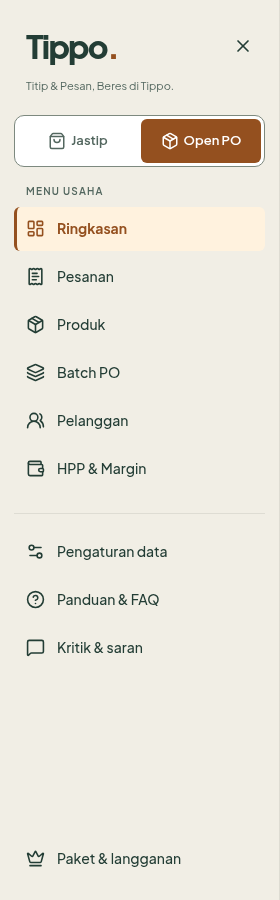
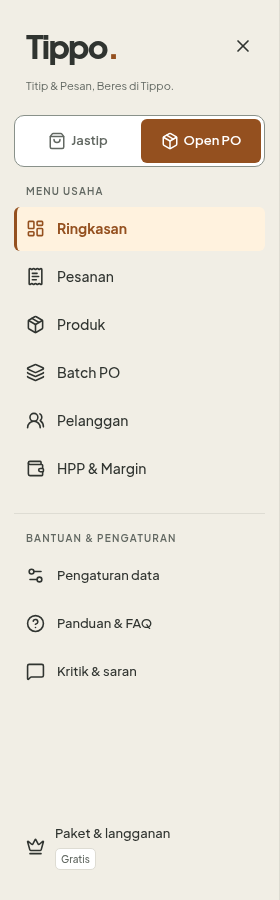
Add confirmed order status changes and refine sidebar for both businesses

Changed region(s): [[0.0857, 0.5911, 0.6286, 0.7778], [0.2, 0.9022, 0.6286, 0.9644], [0.0857, 0.9333, 0.1714, 0.9644]]

diff --git a/src/components/orders-table.tsx b/src/components/orders-table.tsx
@@ -1,10 +1,10 @@
 "use client";
 import { visibleOrderStatus } from "@/lib/order-status";
 
-import { Select, SelectOption } from "@/components/ui/select";
+import { OrderStatusDialog, orderStatuses as statuses, type OrderStatusHandler } from "@/components/order-status-dialog";
 
 import { useState } from "react";
-import { FileText, Pencil, ShoppingBag, RotateCcw } from "lucide-react";
+import { ArrowLeftRight, FileText, Pencil, ShoppingBag, RotateCcw } from "lucide-react";
 import { RefundDialog, type RefundHandler } from "@/components/refund-dialog";
 import { refundedTotal } from "@/lib/refund";
 import { InvoiceDialog } from "@/components/invoice-dialog";
@@ -16,18 +16,12 @@ type OrdersTableProps = {
   data: AppData;
   orders: Order[];
   onEdit: (order: Order) => void;
-  onStatus: (order: Order, status: Order["status"]) => void;
+  onStatus: OrderStatusHandler;
   onRefund: RefundHandler;
   compact?: boolean;
   readOnly?: boolean;
 };
 
-const statuses: { value: Order["status"]; label: string }[] = [
-  { value: "new", label: "Tercatat" },
-  { value: "shipped", label: "Dikirim" },
-  { value: "done", label: "Selesai" },
-  { value: "cancelled", label: "Dibatalkan" },
-];
 
 const avatarColors = ["teal", "peach", "lavender", "gold"];
 
@@ -36,6 +30,8 @@ function initials(name: string) {
 }
 
 export function OrdersTable({ data, orders, onEdit, onStatus, onRefund, compact = false, readOnly = false }: OrdersTableProps) {
+  const [statusOrderId, setStatusOrderId] = useState<string | null>(null);
+  const statusOrder = data.orders.find(order => order.id === statusOrderId);
   const [refundId,setRefundId]=useState<string|null>(null);
   const refundOrder=data.orders.find(order=>order.id===refundId);
   const [invoiceOrderId, setInvoiceOrderId] = useState<string | null>(null);
@@ -51,7 +47,7 @@ export function OrdersTable({ data, orders, onEdit, onStatus, onRefund, compact 
   }
 
   return (
-    <><MobileDataList entries={orders.map(order=>({id:order.id,title:data.customers.find(c=>c.id===order.customerId)?.name||"Pelanggan",subtitle:orderLabel(order),meta:`${formatCurrency(orderRevenue(order))} · ${outstanding(order)>0?`Sisa ${formatCurrency(outstanding(order))}`:"Lunas"}`,status:statuses.find(s=>s.value===visibleOrderStatus(order.status))?.label,details:<><dl className="mobile-detail-fields"><dt>Batch</dt><dd>{data.batches.find(b=>b.id===order.batchId)?.name}</dd><dt>Barang</dt><dd>{order.items.map(i=><p key={i.id}>{itemLabel(i)} × {i.quantity}</p>)}</dd><dt>Total tagihan</dt><dd>{formatCurrency(orderRevenue(order))}</dd><dt>Sudah dibayar</dt><dd>{formatCurrency(order.paid)}</dd><dt>Sisa tagihan</dt><dd>{formatCurrency(outstanding(order))}</dd><dt>HPP</dt><dd>{orderHpp(order,data.orders,data.batches)===null?"Belum lengkap":formatCurrency(orderHpp(order,data.orders,data.batches)!)}</dd></dl>{!readOnly&&<><Select className="input" aria-label={`Status pesanan ${orderLabel(order)}`} value={visibleOrderStatus(order.status)} onValueChange={v=>onStatus(order,v as Order["status"])}>{statuses.map(s=><SelectOption key={s.value} value={s.value}>{s.label}</SelectOption>)}</Select><div className="management-actions"><button data-close-detail className="btn btn-primary" onClick={()=>onEdit(order)}>Edit</button><button data-close-detail className="btn btn-secondary" onClick={()=>setInvoiceOrderId(order.id)}>Invoice</button><button data-close-detail className="btn btn-secondary" disabled={order.paid===0&&!order.refunds?.length} onClick={()=>setRefundId(order.id)}>Refund</button></div></>}</>}))}/><div className="table-wrap desktop-data-table">
+    <><MobileDataList entries={orders.map(order=>({id:order.id,title:data.customers.find(c=>c.id===order.customerId)?.name||"Pelanggan",subtitle:orderLabel(order),meta:`${formatCurrency(orderRevenue(order))} · ${outstanding(order)>0?`Sisa ${formatCurrency(outstanding(order))}`:"Lunas"}`,status:statuses.find(s=>s.value===visibleOrderStatus(order.status))?.label,statusClassName:`status-tag order-status-${visibleOrderStatus(order.status)}`,details:<><dl className="mobile-detail-fields"><dt>Batch</dt><dd>{data.batches.find(b=>b.id===order.batchId)?.name}</dd><dt>Barang</dt><dd>{order.items.map(i=><p key={i.id}>{itemLabel(i)} × {i.quantity}</p>)}</dd><dt>Total tagihan</dt><dd>{formatCurrency(orderRevenue(order))}</dd><dt>Sudah dibayar</dt><dd>{formatCurrency(order.paid)}</dd><dt>Sisa tagihan</dt><dd>{formatCurrency(outstanding(order))}</dd><dt>HPP</dt><dd>{orderHpp(order,data.orders,data.batches)===null?"Belum lengkap":formatCurrency(orderHpp(order,data.orders,data.batches)!)}</dd></dl>{!readOnly&&<><button className="btn btn-secondary product-mobile-action" data-close-detail onClick={()=>setStatusOrderId(order.id)}><ArrowLeftRight size={16}/>Ubah status</button><div className="management-actions"><button data-close-detail className="btn btn-primary" onClick={()=>onEdit(order)}>Edit</button><button data-close-detail className="btn btn-secondary" onClick={()=>setInvoiceOrderId(order.id)}>Invoice</button><button data-close-detail className="btn btn-secondary" disabled={order.paid===0&&!order.refunds?.length} onClick={()=>setRefundId(order.id)}>Refund</button></div></>}</>}))}/><div className="table-wrap desktop-data-table">
       <table className={`orders-table ${readOnly ? "orders-readonly" : ""}`}>
         <caption className="sr-only">Daftar pesanan jastip dan open PO</caption>
         <thead>
@@ -94,22 +90,20 @@ export function OrdersTable({ data, orders, onEdit, onStatus, onRefund, compact 
                 {!compact && <td className="numeric-cell"><span className={hpp === null ? "row-subtitle" : "row-title"} style={{ fontVariantNumeric: "tabular-nums", whiteSpace: "nowrap" }}>{hpp === null ? "Belum lengkap" : formatCurrency(hpp)}</span></td>}
                 <td>
                   {refundedTotal(order)>0 && <div className="row-subtitle">Refund {formatCurrency(refundedTotal(order))}</div>}
-                  {cancelled ? <span className="payment-label muted">Dibatalkan</span> : remaining === 0 ? <span className="payment-label" style={{ color: "var(--primary, #24756b)" }}>Lunas</span> : <>
-                    <span className="payment-label" style={{ color: order.paid > 0 ? "var(--warning, #aa762c)" : "var(--muted, #83908c)" }}>{order.paid > 0 ? `DP ${formatCurrency(order.paid)}` : "Belum dibayar"}</span>
+                  {cancelled ? <span className="payment-label muted">Dibatalkan</span> : remaining === 0 ? <span className="payment-label payment-paid">Lunas</span> : <>
+                    <span className={`payment-label ${order.paid > 0 ? "payment-partial" : "muted"}`}>{order.paid > 0 ? `Bayar sebagian ${formatCurrency(order.paid)}` : "Belum dibayar"}</span>
                     <div className="row-subtitle">Sisa {formatCurrency(remaining)}</div>
                   </>}
                 </td>
                 <td className="center-cell">
-                  {readOnly ? <span className={`status-tag status-${visibleOrderStatus(order.status)}`}>{statuses.find(s=>s.value===visibleOrderStatus(order.status))?.label}</span> : <Select className={`tiny-select status-tag status-${visibleOrderStatus(order.status)}`} value={visibleOrderStatus(order.status)} onValueChange={(value) => onStatus(order, value as Order["status"])} aria-label={`Status pesanan ${label} untuk ${customer?.name ?? "pelanggan"}`}>
-                    {statuses.map((status) => <SelectOption key={status.value} value={status.value}>{status.label}</SelectOption>)}
-                  </Select>}
+                  <span className={`status-tag order-status-${visibleOrderStatus(order.status)}`}>{statuses.find(s=>s.value===visibleOrderStatus(order.status))?.label}</span>
                 </td>
-                {!readOnly && <td className="actions-cell"><div className="order-actions"><button className="icon-button" type="button" onClick={() => setInvoiceOrderId(order.id)} aria-label={`Invoice ${label}`} title="Invoice WhatsApp"><FileText size={16} /></button><button className="icon-button" type="button" onClick={() => onEdit(order)} aria-label={`Edit pesanan ${label}`}><Pencil size={16} /></button><button className="icon-button" type="button" aria-label={`Refund ${label}`} title="Refund pesanan" disabled={order.paid===0 && !order.refunds?.length} onClick={()=>setRefundId(order.id)}><RotateCcw size={16}/></button></div></td>}
+                {!readOnly && <td className="actions-cell"><div className="order-actions"><button className="icon-button" type="button" aria-label={`Ubah status pesanan ${label} untuk ${customer?.name ?? "pelanggan"}`} title="Ubah status" onClick={()=>setStatusOrderId(order.id)}><ArrowLeftRight size={16}/></button><button className="icon-button" type="button" onClick={() => setInvoiceOrderId(order.id)} aria-label={`Invoice ${label}`} title="Invoice WhatsApp"><FileText size={16} /></button><button className="icon-button" type="button" onClick={() => onEdit(order)} aria-label={`Edit pesanan ${label}`}><Pencil size={16} /></button><button className="icon-button" type="button" aria-label={`Refund ${label}`} title="Refund pesanan" disabled={order.paid===0 && !order.refunds?.length} onClick={()=>setRefundId(order.id)}><RotateCcw size={16}/></button></div></td>}
               </tr>
             );
           })}
         </tbody>
       </table>
-    </div>{refundOrder && <RefundDialog order={refundOrder} onRefund={onRefund} onClose={()=>setRefundId(null)}/ >}{invoiceOrder && <InvoiceDialog order={invoiceOrder} data={data} onClose={() => setInvoiceOrderId(null)} />}</>
+    </div>{statusOrder && !readOnly && <OrderStatusDialog order={statusOrder} onSave={onStatus} onClose={()=>setStatusOrderId(null)}/ >}{refundOrder && <RefundDialog order={refundOrder} onRefund={onRefund} onClose={()=>setRefundId(null)}/ >}{invoiceOrder && <InvoiceDialog order={invoiceOrder} data={data} onClose={() => setInvoiceOrderId(null)} />}</>
   );
 }

diff --git a/tests/website.spec.ts b/tests/website.spec.ts
@@ -428,6 +428,8 @@ for(const width of [390,1440]) for(const theme of ["light","dark"]) test(`sideba
  await openNavigation(page);
  const sidebar=page.locator(".sidebar");
  await expect(sidebar.getByRole("group",{name:"Pilih usaha"})).toBeVisible();
+ await expect(sidebar.locator(".sidebar-plan-badge")).toHaveText("Gratis");await expect(sidebar.getByText("Bantuan & pengaturan",{exact:true})).toBeVisible();
+ const switchWidths=await sidebar.locator(".business-switch button").evaluateAll(buttons=>buttons.map(b=>b.getBoundingClientRect().width));expect(Math.abs(switchWidths[0]-switchWidths[1])).toBeLessThan(1);
  await expect(page.locator("main .business-switch")).toHaveCount(0);
  await expect(sidebar.locator(".sidebar-menu-group").first().getByRole("button")).toHaveText(["Ringkasan","Pesanan","Perjalanan","Pelanggan","HPP & Margin"]);
  await sidebar.getByRole("button",{name:"Open PO",exact:true}).click();
@@ -654,7 +656,7 @@ test("dashboard recent orders are read only while Jastip retains actions",async(
  expect(alignment).toBeLessThan(1); await recent.screenshot({path:"docs/preview-dashboard-orders-readonly.png"});
  await openBusiness(page,"Jastip"); await openSection(page,"Pesanan");
  await expect(page.getByRole("button",{name:"Edit pesanan Barang Ringkasan"})).toBeVisible();
- await expect(page.getByLabel("Status pesanan Barang Ringkasan untuk Alya")).toBeVisible();
+ await expect(page.getByRole("button",{name:"Ubah status pesanan Barang Ringkasan untuk Alya"})).toBeVisible();
 });
 
 test("product status actions confirm archive and restore and preserve status on cancel",async({page})=>{
@@ -695,6 +697,21 @@ for(const paid of [false,true])test(`unpaid dashboard distinguishes ${paid?"sett
  const data=structuredClone(fixture);
  if(paid)data.orders.push({id:"paid-order",batchId:"trip",customerId:"aly",date:new Date().toLocaleDateString("en-CA",{timeZone:"Asia/Jakarta"}),createdAt:new Date().toISOString(),status:"done",paid:25000,serviceFee:0,shippingCharge:0,notes:"",items:[{id:"paid-item",product:"Produk lunas",productId:null,variant:"",color:"",size:"",quantity:1,unitPrice:25000,unitCost:12000}]});
  await authenticate(page,{workspace:data});await page.goto("/app");const card=page.getByRole("region",{name:"Tagihan belum lunas"});await expect(card).toContainText(paid?"Semua tagihan bulan ini sudah lunas.":"Belum ada tagihan bulan ini.");await expect(card.locator("li")).toHaveCount(0);
+});
+
+for(const mode of ["Jastip","Open PO"])for(const width of [390,1440])for(const theme of ["light","dark"])test(`order status dialog ${mode} ${width} ${theme} saves explicitly and keeps cancellation guard`,async({page})=>{
+ await page.setViewportSize({width,height:1000});await page.addInitScript(t=>localStorage.setItem("tippo.theme.v1",t),theme);const requests=await authenticate(page,{workspace:twoBusinessWorkspace()});await page.goto("/app");await expect(page.locator(".recent-card").getByRole("button",{name:/Ubah status/})).toHaveCount(0);await openBusiness(page,mode);await openSection(page,"Pesanan");
+ const customer=mode==="Jastip"?"Alya":"Bima PO";
+ async function openStatus(){if(width<760){await page.getByRole("button",{name:`Detail ${customer}`,exact:true}).click();await page.getByRole("dialog",{name:`Detail ${customer}`,exact:true}).getByRole("button",{name:"Ubah status",exact:true}).click();await expect(page.getByRole("dialog",{name:`Detail ${customer}`,exact:true})).toHaveCount(0);}else await page.getByRole("button",{name:/Ubah status pesanan/}).click();return page.getByRole("dialog",{name:"Ubah status pesanan",exact:true});}
+ let dialog=await openStatus();await expect(dialog.getByRole("button",{name:"Simpan status"})).toBeDisabled();await dialog.getByRole("radio",{name:"Dikirim",exact:true}).check();expect(requests).toHaveLength(0);await dialog.getByRole("button",{name:"Batal",exact:true}).click();expect(requests).toHaveLength(0);dialog=await openStatus();await expect(dialog.getByRole("radio",{name:"Tercatat",exact:true})).toBeChecked();await dialog.getByRole("radio",{name:"Dibatalkan",exact:true}).check();await expect(dialog).toContainText("Catat refund seluruh pembayaran");await expect(dialog.getByRole("button",{name:"Simpan status"})).toBeDisabled();await dialog.getByRole("radio",{name:"Dikirim",exact:true}).check();await dialog.screenshot({path:`docs/preview-order-status-${mode==="Jastip"?"jastip":"po"}-${width}-${theme}.png`});await dialog.getByRole("button",{name:"Simpan status"}).click();await expect(dialog).toHaveCount(0);expect(requests).toHaveLength(1);expect(requests[0].p_data.orders.find(o=>o.id===(mode==="Jastip"?"jastip-business-order":"po-business-order"))?.status).toBe("shipped");expect(await page.evaluate(()=>document.documentElement.scrollWidth)).toBe(width);
+});
+
+test("order status save failure keeps dialog and draft selection open",async({page})=>{
+ await authenticate(page,{workspace:twoBusinessWorkspace(),failSave:true});await page.goto("/app");await openBusiness(page,"Jastip");await openSection(page,"Pesanan");await page.getByRole("button",{name:/Ubah status pesanan/}).click();const dialog=page.getByRole("dialog",{name:"Ubah status pesanan",exact:true});await dialog.getByRole("radio",{name:"Dikirim",exact:true}).check();await dialog.getByRole("button",{name:"Simpan status"}).click();await expect(dialog.getByRole("alert")).toContainText("Status belum tersimpan");await expect(dialog.getByRole("radio",{name:"Dikirim",exact:true})).toBeChecked();await expect(page.locator(".orders-table .order-status-new")).toHaveText("Tercatat");
+});
+
+test("unpaid order can be cancelled without changing its products or payments",async({page})=>{
+ const data=twoBusinessWorkspace();data.orders[0].paid=0;data.orders[0].refunds=[];const requests=await authenticate(page,{workspace:data});await page.goto("/app");await openBusiness(page,"Jastip");await openSection(page,"Pesanan");await page.getByRole("button",{name:/Ubah status pesanan/}).click();const dialog=page.getByRole("dialog",{name:"Ubah status pesanan",exact:true});await dialog.getByRole("radio",{name:"Dibatalkan",exact:true}).check();await dialog.getByRole("button",{name:"Simpan status"}).click();await expect(dialog).toHaveCount(0);expect(requests[0].p_data.orders[0]).toEqual({...data.orders[0],status:"cancelled"});await expect(page.locator(".orders-table .order-status-cancelled")).toHaveText("Dibatalkan");
 });
 
 function twoBusinessWorkspace():AppData {

diff --git a/src/components/order-status-dialog.tsx b/src/components/order-status-dialog.tsx
@@ -1,0 +1,50 @@
+"use client";
+
+import { useEffect, useRef, useState } from "react";
+import { ArrowLeftRight, X } from "lucide-react";
+import { Button } from "@/components/ui/button";
+import { visibleOrderStatus } from "@/lib/order-status";
+import { orderLabel } from "@/lib/finance";
+import type { Order } from "@/lib/types";
+
+export const orderStatuses = [
+  { value: "new", label: "Tercatat" },
+  { value: "shipped", label: "Dikirim" },
+  { value: "done", label: "Selesai" },
+  { value: "cancelled", label: "Dibatalkan" },
+] as const;
+export type OrderStatusHandler = (order: Order, status: Order["status"]) => boolean | Promise<boolean>;
+
+export function OrderStatusDialog({ order, onClose, onSave }: { order: Order; onClose: () => void; onSave: OrderStatusHandler }) {
+  const ref = useRef<HTMLDialogElement>(null);
+  const cancelRef = useRef<HTMLButtonElement>(null);
+  const lock = useRef(false);
+  const current = visibleOrderStatus(order.status);
+  const [status, setStatus] = useState(current);
+  const [busy, setBusy] = useState(false);
+  const [error, setError] = useState("");
+  const needsRefund = status === "cancelled" && order.paid > 0;
+  useEffect(() => {
+    const focus = document.activeElement instanceof HTMLElement ? document.activeElement : null;
+    const overflow = document.body.style.overflow;
+    document.body.style.overflow = "hidden";
+    ref.current?.showModal();
+    const frame = requestAnimationFrame(() => cancelRef.current?.focus());
+    return () => { cancelAnimationFrame(frame); document.body.style.overflow = overflow; focus?.focus(); };
+  }, []);
+  async function save() {
+    if (lock.current || status === current || needsRefund) return;
+    lock.current = true; setBusy(true); setError("");
+    try { if (await onSave(order, status)) onClose(); else setError("Status belum tersimpan. Coba lagi."); }
+    catch { setError("Status belum tersimpan. Coba lagi."); }
+    finally { lock.current = false; setBusy(false); }
+  }
+  return <dialog ref={ref} className="native-dialog" aria-labelledby="order-status-title" onCancel={e => { e.preventDefault(); if (!lock.current) onClose(); }}>
+    <div className="modal-header"><h2 id="order-status-title">Ubah status pesanan</h2><button className="icon-button" aria-label="Tutup perubahan status" disabled={busy} onClick={onClose}><X size={20} /></button></div>
+    <div className="modal-body order-status-body"><strong>{orderLabel(order)}</strong><p>Status saat ini: <span className={`status-tag order-status-${current}`}>{orderStatuses.find(s => s.value === current)?.label}</span></p>
+      <fieldset className="order-status-options" disabled={busy}><legend>Status baru</legend>{orderStatuses.map(s => <label key={s.value} className="order-status-option"><input type="radio" name="order-status" value={s.value} checked={status === s.value} onChange={() => { setStatus(s.value); setError(""); }} /><span className={`status-tag order-status-${s.value}`}>{s.label}</span></label>)}</fieldset>
+      {needsRefund && <p className="error-message">Catat refund seluruh pembayaran sebelum membatalkan pesanan ini.</p>}{error && <p role="alert" className="error-message">{error}</p>}
+    </div>
+    <div className="modal-footer"><Button ref={cancelRef} className="btn btn-secondary" disabled={busy} onClick={onClose}>Batal</Button><Button className="btn btn-primary" disabled={busy || status === current || needsRefund} onClick={save}><ArrowLeftRight size={16} />{busy ? "Menyimpan…" : "Simpan status"}</Button></div>
+  </dialog>;
+}

diff --git a/src/components/tippo-app.tsx b/src/components/tippo-app.tsx
@@ -130,7 +130,9 @@ export function TippoApp({ cloud }: { cloud?: AccountWorkspace }) {
     if (!mobileOpen) return;
     const sidebar = navigationRef.current;
     const opener = menuRef.current;
-    const focusFrame = requestAnimationFrame(() => sidebar?.querySelector<HTMLButtonElement>("button")?.focus());
+    const focusFrame = requestAnimationFrame(() => {
+      if (!sidebar?.contains(document.activeElement)) sidebar?.querySelector<HTMLButtonElement>("button")?.focus();
+    });
     const handleKey = (event: KeyboardEvent) => {
       if (event.key === "Escape") { event.preventDefault(); setMobileOpen(false); }
       if (event.key !== "Tab" || !sidebar) return;
@@ -193,8 +195,8 @@ export function TippoApp({ cloud }: { cloud?: AccountWorkspace }) {
     if (await persist(next, !orderModal?.order ? "Pesanan baru berhasil dicatat" : "Pesanan berhasil diperbarui")) setOrderModal(null);
   }
   function updateStatus(order: Order, status: Order["status"]) {
-    if (status === "cancelled" && order.paid > 0) { notify("Pesanan yang sudah dibayar belum dapat dibatalkan. Catat refund seluruh pembayaran sebelum membatalkan."); return; }
-    persist({ ...data, orders: data.orders.map((o) => o.id === order.id ? { ...o, status } : o) }, "Status pesanan diperbarui");
+    if (status === "cancelled" && order.paid > 0) { notify("Pesanan yang sudah dibayar belum dapat dibatalkan. Catat refund seluruh pembayaran sebelum membatalkan."); return false; }
+    return persist({ ...data, orders: data.orders.map((o) => o.id === order.id ? { ...o, status } : o) }, "Status pesanan diperbarui");
   }
   const modeBatches = data.batches.filter(batch => batch.type === mode);
   const modeBatchIds = new Set(modeBatches.map(batch => batch.id));
@@ -291,10 +293,11 @@ export function TippoApp({ cloud }: { cloud?: AccountWorkspace }) {
           {navigation.map(({ id, label, icon: Icon }) => <button key={id} aria-label={label} title={sidebarCollapsed ? label : undefined} aria-current={page === id ? "page" : undefined} className={`nav-item ${page === id ? "active" : ""}`} onClick={() => go(id)}><Icon size={19} /><span>{label}</span></button>)}
           </div>
           <div className="sidebar-menu-group sidebar-support" role="group" aria-label="Menu pendukung">
+            <div className="workspace-label">Bantuan & pengaturan</div>
             {supportNavigation.map(({ id, label, icon: Icon }) => <button key={id} aria-label={label} title={sidebarCollapsed ? label : undefined} aria-current={page === id ? "page" : undefined} className={`nav-item ${page === id ? "active" : ""}`} onClick={() => go(id)}><Icon size={19} /><span>{label}</span></button>)}
           </div>
         </nav>
-        <div className="sidebar-bottom"><button aria-label="Paket & langganan" title={sidebarCollapsed ? "Paket & langganan" : undefined} className={`nav-item ${page === "subscription" ? "active" : ""}`} aria-current={page === "subscription" ? "page" : undefined} onClick={() => go("subscription")}><Crown size={19} /><span>Paket & langganan</span></button>
+        <div className="sidebar-bottom"><button aria-label="Paket & langganan" title={sidebarCollapsed ? "Paket & langganan" : undefined} className={`nav-item subscription-nav ${page === "subscription" ? "active" : ""}`} aria-current={page === "subscription" ? "page" : undefined} onClick={() => go("subscription")}><Crown size={19} /><span>Paket & langganan</span><small className="sidebar-plan-badge">{isPro ? "Pro" : "Gratis"}</small></button>
         </div>
       </aside>
 

diff --git a/src/app/theme.css b/src/app/theme.css
@@ -241,6 +241,15 @@
 .sidebar .business-switch { width:100%; margin:20px 0 16px; padding:3px; gap:3px; }
 .sidebar .business-switch button { gap:5px; padding:6px; font-size:12px; }
 .sidebar .business-switch button > span { white-space:nowrap; }
+.sidebar .business-switch button { flex:1 1 0; min-width:0; }
+.sidebar .sidebar-support .workspace-label { margin-bottom:4px; }
+.sidebar .sidebar-support .nav-item { font-size:13px; }
+.sidebar-plan-badge { font-size:10px; border:1px solid var(--border); border-radius:5px; padding:2px 5px; color:var(--muted); background:var(--paper); }
+.subscription-nav { display:grid; grid-template-columns:19px minmax(0,1fr); gap:4px 10px; }
+.subscription-nav > svg { grid-row:1 / 3; }
+.subscription-nav > span { font-size:13px; }
+.subscription-nav .sidebar-plan-badge { grid-column:2; justify-self:start; }
+@media(min-width:761px) { .sidebar-collapsed .sidebar-plan-badge { display:none; } .sidebar-collapsed .subscription-nav { display:flex; } }
 .sidebar-bottom { padding-top:24px; }
 @media(min-width:761px) {
  .sidebar-collapsed .sidebar .business-switch { flex-direction:column; margin-bottom:12px; padding:3px; }
@@ -250,3 +259,20 @@
  .sidebar-collapsed .sidebar-support { margin-top:10px; padding-top:10px; }
 }
 @media(max-width:760px) { .sidebar .business-switch button { font-size:13px; } .sidebar .brand { padding-right:44px; } }
+
+:root { --order-blue:#28568b; --order-blue-soft:#edf3fc; --order-purple:#674699; --order-purple-soft:#f1ecf9; --payment-partial:#80600c; }
+:root[data-theme="dark"] { --order-blue:#adc9f1; --order-blue-soft:#25354b; --order-purple:#cdb4f5; --order-purple-soft:#372b49; --payment-partial:#e4cb7a; }
+.order-status-new,.mobile-row-heading small.order-status-new { color:var(--order-blue); background:var(--order-blue-soft); }
+.order-status-shipped,.mobile-row-heading small.order-status-shipped { color:var(--order-purple); background:var(--order-purple-soft); }
+.order-status-done,.mobile-row-heading small.order-status-done { color:var(--success); background:var(--success-soft); }
+.order-status-cancelled,.mobile-row-heading small.order-status-cancelled { color:var(--danger); background:var(--tone-surface-fff2ed); }
+.payment-paid { color:var(--success); }
+.payment-partial { color:var(--payment-partial); }
+.order-status-body > p { margin:16px 0 24px; }
+.order-status-options { display:grid; grid-template-columns:repeat(2,minmax(0,1fr)); gap:10px; padding:0; border:0; min-width:0; }
+.order-status-options legend { margin-bottom:12px; font-size:14px; font-weight:600; }
+.order-status-option { display:flex; align-items:center; gap:10px; min-height:56px; padding:12px; border:1px solid var(--border); border-radius:8px; cursor:pointer; }
+.order-status-option:has(input:checked) { border-color:var(--primary); background:var(--tone-surface-f1eee5); }
+.order-status-option input { accent-color:var(--primary); flex-shrink:0; }
+.order-status-option:has(input:focus-visible) { outline:2px solid var(--primary); outline-offset:2px; }
+@media(max-width:360px) { .order-status-options { grid-template-columns:1fr; } }

diff --git a/src/components/help-panel.tsx b/src/components/help-panel.tsx
@@ -25,6 +25,7 @@ export function HelpPanel({ mode, onNavigate }: { mode: Batch["type"]; onNavigat
         "Pilih tanggal lewat kalender, lalu isi produk dan jumlahnya. Field bertanda bintang merah wajib diisi.",
         "Tambahkan diskon, ongkir yang ditagihkan, dan catatan jika diperlukan. Periksa total tagihan sebelum mengisi pembayaran.",
         "Gunakan Lunas untuk mengisi seluruh total tagihan atau Bayar sebagian untuk menulis nominal yang sudah diterima. Klik Simpan pesanan setelah datanya lengkap.",
+        "Untuk mengubah status pesanan, klik ikon panah dua arah pada kolom Tindakan atau Ubah status pada detail ponsel. Pilih status baru, lalu klik Simpan status. Pesanan yang sudah dibayar perlu refund seluruh pembayaran sebelum dibatalkan.",
       ], destination: "orders", action: "Buka Pesanan",
     },
     {

diff --git a/src/components/mode-workspace.tsx b/src/components/mode-workspace.tsx
@@ -23,7 +23,7 @@ type Props = {
   onEditBatch: (batch: Batch) => void;
   onNewOrder: (batchId?: string, productId?: string) => void;
   onEditOrder: (order: Order) => void;
-  onStatus: (order: Order, status: Order["status"]) => void;
+  onStatus: (order: Order, status: Order["status"]) => boolean | Promise<boolean>;
   onBatchStatus: (batch: Batch, status: Batch["status"]) => boolean | Promise<boolean>;
   onHpp: (batch: Batch) => void;
   onSaveProduct: (product: Product) => boolean | Promise<boolean>;

diff --git a/docs/SIDEBAR.md b/docs/SIDEBAR.md
@@ -1,6 +1,6 @@
 # Sidebar organization
 
-The Jastip / Open PO switch lives below the sidebar brand. The main-content switch is removed. Business menus appear in this order: Ringkasan, Pesanan, Produk (PO only), Batch PO / Perjalanan, Pelanggan, HPP & Margin. A divider separates Pengaturan data, Panduan & FAQ, and Kritik & saran. Paket & langganan remains at the bottom.
+The Jastip / Open PO switch lives below the sidebar brand with equal-width choices. Business menus appear in this order: Ringkasan, Pesanan, Produk (PO only), Batch PO / Perjalanan, Pelanggan, HPP & Margin. The smaller support menus sit under Bantuan & pengaturan: Pengaturan data, Panduan & FAQ, and Kritik & saran. Paket & langganan remains at the bottom with a Gratis / Pro badge, hidden when collapsed. Mobile opening focus respects a control the user has already focused inside the sidebar.
 
 Both businesses use a neutral sidebar: warm cream in light mode and charcoal in dark mode. Mint/apricot accents identify the selected business, current menu and active left border. Menu controls have at least 44 px height. Collapsed desktop navigation keeps icon-only business choices and menu names through title tooltips. Mobile users can switch businesses inside the navigation panel; choosing a business or page closes it. Escape restores focus to the menu opener.
 

diff --git a/docs/ORDER-STATUS.md b/docs/ORDER-STATUS.md
@@ -1,0 +1,7 @@
+# Order status
+
+Jastip and Open PO use the same order badges: blue Tercatat, purple Dikirim, green Selesai and red Dibatalkan, with light and dark variants. Payment labels use green for Lunas, yellow for Bayar sebagian and neutral text for Belum dibayar.
+
+Desktop users open the status dialog with the two-way arrow in Tindakan. Mobile users open Ubah status from the order detail. The dialog shows the current status and four radio choices; selecting a choice does not save it. Simpan status is disabled until the status changes. Saving failure retains the dialog and selection. Cancellation with received payments remains blocked until the existing refund flow clears the payment balance. Status changes do not change items, payments or refunds. Dashboard orders remain read-only.
+
+Validation: lint and production build pass. 21 browser checks cover both businesses and themes, desktop and mobile status changes, cancellation before save, failed saves, payment cancellation guard, unpaid cancellation, read-only dashboard, sidebar grouping and collapse, and business switching. Dialog screenshots are stored as preview-order-status-*.png. Physical devices and Vercel deployment were not verified.
